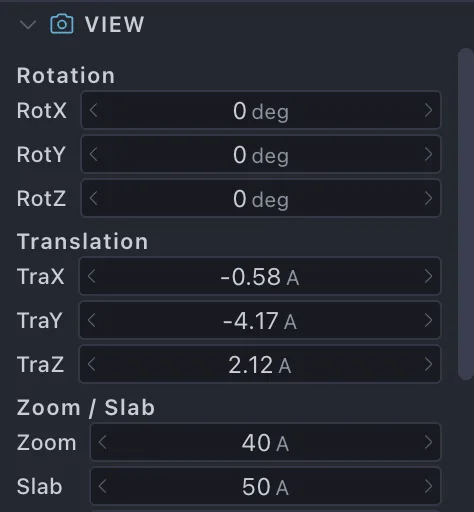
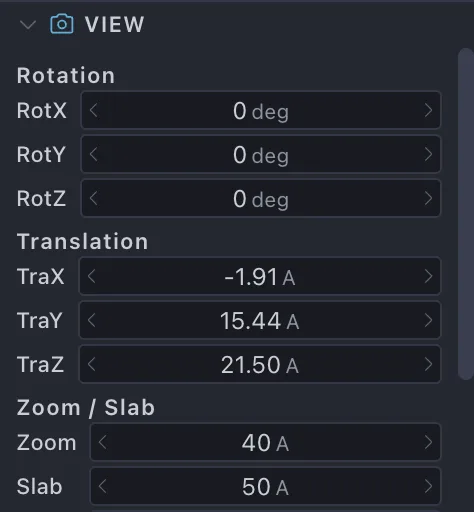
Match the CueMol2 tutorial's figures and wording
Where the CueMol2 tutorial illustrates a GUI part, this page should too,
and where the behaviour has not changed its wording should stand.

- Add the two figures Step2 has and this page lacked: the clicked atom's
  name drawn in the view, and the status bar line reporting the chain,
  residue, atom, occupancy, B factor and coordinates. Both come from the
  capture run, and the atom-click paragraph now follows Step2's wording.
- Restore the Renderer type descriptions to CueMol2's, including the
  performance ordering and what each is suited for, which the condensed
  versions had dropped.

The spec now clicks an atom and asserts the report, so that step is no
longer skipped; only the view's right-click menu remains out of reach
(native on macOS). Three things the run taught, recorded in the playbook
along with the rule to align against cuemol2_docs: a synthetic wheel is
auto-detected as a trackpad and pans instead of zooming, the click report
goes to the status bar and Output panel rather than the process log, and
narrowing a serial spec with --grep skips the test that loads the molecule.

Changed region(s): [[0.4726, 0.6875, 0.6203, 0.75], [0.4726, 0.5938, 0.6498, 0.6562], [0.4726, 0.5, 0.6498, 0.5625]]

diff --git a/docs-verify/specs/basic/loading.spec.ts b/docs-verify/specs/basic/loading.spec.ts
@@ -18,7 +18,7 @@ import { setupLoadingPage, LYSOZYME, SECOND_OBJ } from '../../fixtures/course';
 import { assertDialogQueuesEmpty } from '../../helpers/dialogs';
 import { expectRow, sceneRow } from '../../helpers/sceneTree';
 import { enterViewValue, setViewValue, viewPaneRowParts } from '../../helpers/viewPane';
-import { rotateView, zoomView } from '../../helpers/molView';
+import { clickAtomNearCenter, rotateView, zoomView } from '../../helpers/molView';
 import { docShot } from '../../helpers/docShot';
 
 const SHOT = 'tutorials/basic/loading';
@@ -80,6 +80,24 @@ test.describe.serial('構造の読み込みと表示', { tag: '@net' }, () => {
     });
 
     test('2. 視点を操作する', async () => {
+        // 「原子の上でクリックすると、その原子の名前がラベルとして分子ビューに
+        //   表示されます。同時に、ステータスバーと Output パネルに ... が出ます」
+        // Done before the gestures below, while the molecule is still centred
+        // from loading: the synthetic wheel is auto-detected as a Mac trackpad
+        // and pans the view instead of zooming, moving the molecule off centre.
+        const hit = await clickAtomNearCenter(harness.window, LYSOZYME);
+        // "Molecule [lysozyme], A TRP 63 CH2, O: 1.00 B: 12.58 Pos: (...)"
+        await expect(harness.window.locator('.status-left'))
+            .toContainText(/O: [\d.]+ B: [\d.]+ Pos: \(/);
+        await expect(harness.window.locator('.bottom-panel-content pre[data-select-scope]'))
+            .toContainText(`Molecule [${LYSOZYME}]`);
+        await docShot(harness.window, `${SHOT}/2-atom-label`, {
+            rect: { x: hit.x - 200, y: hit.y - 130, width: 400, height: 260 },
+        });
+        await docShot(harness.window, `${SHOT}/2-status-bar`, {
+            clip: harness.window.locator('.status-left'),
+        });
+
         // 「1. 分子ビュー上を左ドラッグします」「2. ホイールを回します」
         await rotateView(harness.window);
         await zoomView(harness.window);
@@ -102,7 +120,7 @@ test.describe.serial('構造の読み込みと表示', { tag: '@net' }, () => {
 
         test.info().annotations.push({
             type: 'skipped-step',
-            description: '§2 原子クリックによるラベル表示と Center at this atom (macOS ではネイティブメニュー)',
+            description: '§2 分子ビューの右クリックメニュー (macOS ではネイティブメニューのため撮影・操作ともできない)',
         });
     });
 

diff --git a/docs-verify/helpers/molView.ts b/docs-verify/helpers/molView.ts
@@ -1,4 +1,4 @@
-import type { Page } from '@playwright/test';
+import { expect, type Page } from '@playwright/test';
 
 /**
  * Molecular-view (canvas) gestures. There is no render-complete signal for
@@ -23,6 +23,42 @@ export async function rotateView(window: Page, dx = 120, dy = 60): Promise<void>
     }
     await window.mouse.up();
     await window.waitForTimeout(VIEW_SETTLE_MS);
+}
+
+/**
+ * Click an atom near the middle of the view (the molecule is centred after
+ * loading) and wait for the app to report the hit. Which atom is hit depends
+ * on the viewpoint, so a few nearby points are tried before giving up; the
+ * point that hit is returned so a screenshot can be framed around it.
+ *
+ * The report goes to the status bar and the Output panel, not to the main
+ * process log.
+ */
+const PICK_OFFSETS = [[0, 0], [12, 8], [-14, 6], [8, -16], [-20, -12]] as const;
+
+export async function clickAtomNearCenter(
+    window: Page,
+    objectName: string,
+): Promise<{ x: number; y: number }> {
+    const box = await canvas(window).boundingBox();
+    if (!box) throw new Error('[docs-verify] molecular view canvas not found');
+    const status = window.locator('.status-left');
+    for (const [dx, dy] of PICK_OFFSETS) {
+        const x = Math.round(box.x + box.width / 2 + dx);
+        const y = Math.round(box.y + box.height / 2 + dy);
+        await window.mouse.click(x, y);
+        try {
+            await expect(status).toContainText(`Molecule [${objectName}]`, { timeout: 2_000 });
+            return { x, y };
+        } catch {
+            // Missed: the click landed between atoms. Try the next point.
+        }
+    }
+    const seen = await status.innerText().catch(() => '(status bar empty)');
+    throw new Error(
+        `[docs-verify] no atom of "${objectName}" was hit near the view centre\n` +
+        `  canvas: ${JSON.stringify(box)}\n  status bar: ${JSON.stringify(seen)}`,
+    );
 }
 
 export async function zoomView(window: Page, wheelDelta = -240): Promise<void> {

diff --git a/docs-verify/helpers/docShot.ts b/docs-verify/helpers/docShot.ts
@@ -31,10 +31,12 @@ const MAX_BYTES = 300 * 1024;
 const SHOT_SETTLE_MS = 500;
 const WEBP_QUALITIES = [82, 70, 58, 46];
 
+export interface Rect { x: number; y: number; width: number; height: number }
+
 export async function docShot(
     window: Page,
     id: string,
-    opts: { clip?: Locator | Locator[]; pad?: number } = {},
+    opts: { clip?: Locator | Locator[]; pad?: number; rect?: Rect } = {},
 ): Promise<void> {
     if (!process.env.DOCSHOT) return;
 
@@ -64,7 +66,12 @@ export async function docShot(
     console.log(`[docShot] ${id}.webp (${Math.round(out.length / 1024)} KB)`);
 }
 
-async function capture(window: Page, opts: { clip?: Locator | Locator[]; pad?: number }): Promise<Buffer> {
+async function capture(
+    window: Page,
+    opts: { clip?: Locator | Locator[]; pad?: number; rect?: Rect },
+): Promise<Buffer> {
+    // An explicit region, for parts of the GL canvas that no element covers.
+    if (opts.rect) return window.screenshot({ clip: opts.rect });
     if (!opts.clip) return window.screenshot();
     const clips = Array.isArray(opts.clip) ? opts.clip : [opts.clip];
     if (clips.length === 1 && opts.pad === undefined) return clips[0].screenshot();

diff --git a/docs/ja/tutorials/basic/loading.md b/docs/ja/tutorials/basic/loading.md
@@ -38,25 +38,26 @@
 よく使う表示方法には次のようなものがあります。
 
 simple
-:   線画の stick モデル。軽く、細部を確認する用途に向きます
+:   線画の stick モデル。パフォーマンス的には trace に次いで高速。細かく見る場合に適している
 
 trace
-:   Cα (タンパク質) / リン原子 (核酸) を直線でつないだ最も軽い表示
+:   線画の Cα (タンパク質の場合)、リン原子 (核酸の場合) トレース。パフォーマンス的には
+    最も高速。大まかに見る場合に適している
 
 ballstick
-:   原子を球、結合を円柱で描くモデル
+:   ball and stick モデル表示
 
 cpk
-:   空間充填モデル
+:   CPK モデル表示。空間充填モデルともいう
 
 tube
-:   主鎖を滑らかなチューブで描く表示
+:   主鎖のチューブ状モデル表示。trace の発展版のようなもの
 
 ribbon / cartoon
-:   二次構造を反映したリボン表示。cartoon はヘリックスを筒状に描きます
+:   いわゆるリボンモデル表示。cartoon はヘリックスを筒状に描く
 
 nucl
-:   核酸向けの主鎖チューブ + 塩基表示
+:   tube の DNA、RNA 向け発展版。塩基が棒状に表示される
 
 全種類の一覧と詳細は [Renderer 一覧](../../reference/renderers/index.md) を参照してください。
 
@@ -110,15 +111,23 @@ View パネルの各行は、次の 3 通りで操作できます。
 [マウス・トラックパッド操作](../../ui/mouse-input.md)、View パネルの各項目は
 [サイドパネル](../../ui/side-panels.md) を参照してください。
 
-原子の上でクリックすると、その原子の名前がラベルとして分子ビューに表示されます
-(もう一度クリックすると消えます)。同時に、**ウィンドウ最下部のステータスバー**と
-**Output パネル**に、Object 名・チェイン・残基・原子名に加えて、占有率 (O)・温度因子 (B)・
-座標が出ます。
+### 原子の名称と情報を表示する
 
-右クリックするとメニューが開きます。**先頭の行はいま指している原子の情報**で、選んでも
-何も起きません。その下の **Center at this atom** を選ぶと、その原子がビューの中央に来る
-ように視点が移ります。さらに下には選択のための項目が並びます
-(→ [分子の一部を選択する](selection.md))。
+原子の位置でクリックすると、その原子の名称が分子ビューに表示されます
+(もう一度クリックすると消えます)。
+
+![クリックした原子に名称が表示される](../../../assets/images/tutorials/basic/loading/2-atom-label.webp){ width="400" .on-glb }
+
+さらに、その原子の座標や温度因子など、詳しい情報が**ウィンドウ最下部のステータスバー**に
+表示されます (同じ内容が **Output** パネルにも残ります)。分子 Object 名、チェイン名、
+残基名・番号、原子名の順に並び、続いて占有率 (O)、温度因子 (B)、座標が出ます。
+
+![ステータスバーに表示された原子の情報](../../../assets/images/tutorials/basic/loading/2-status-bar.webp){ width="451" }
+
+原子の位置で右クリックするとコンテキストメニューが表示されます。一番上は上と同じ原子の
+情報で、選んでも何も起こりません。次の **Center at this atom** を選ぶと、その原子が
+ビューの中央に来るように視点が移動します。それ以下の Select 関連のメニューは
+[分子の一部を選択する](selection.md) で説明します。
 
 ## 3. もう 1 つ分子を読み込む
 

diff --git a/docs-verify/PLAYBOOK.md b/docs-verify/PLAYBOOK.md
@@ -41,6 +41,22 @@ spec を書き始める前に、ページが次を満たしているか確認す
   (Renderer の既定色は `$molcol` を参照するので、ballstick の炭素まで追従する)
 - 役目を終えた Renderer は目のアイコンで非表示にする、まで書く
 
+## 1.5 cuemol2_docs との対応を取る
+
+CueMol3 のチュートリアルは CueMol2 の対応ページを下敷きにしている。ページを書く前に
+**対応する CueMol2 ページ (`~/works/cuemol2_docs/docs/ja/Documents/GUIのチュートリアル(CueMol2)/`)
+を開き、図と説明を洗い出して突き合わせる**。
+
+- **図**: CueMol2 が図を出している対象 (ダイアログ、パネル、ステータスバー、コンテキスト
+  メニュー、ツールバーのボタンなど) には、こちらでも図を用意する。**被写体は同じでも、
+  画面は CueMol3 のものを撮る** (`docShot`)。
+- **文章**: 実装が変わっていない部分は、**言い回しも CueMol2 と同じにする**。表現を変えるのは
+  実装が変わった箇所だけ。
+- **流用**: 内容が変わっていない図 (概念図など) は CueMol2 の画像をそのままコピーして使う
+  (例: `scene_concept_small2.png` → `tutorials/basic/loading/scene-concept.png`)。
+- CueMol2 が説明していて CueMol3 に存在しない GUI (ロック列など) は、**存在しないことを
+  確認してから**「CueMol2 との違い」に書く。確認できなければ書かない。
+
 ## 2. セレクタの調べ方 (使い捨て DOM ダンプ)
 
 production コードに `data-testid` は無いので、セレクタは可視テキスト・aria-label・
@@ -283,6 +299,9 @@ task e2e            # 既定ウィンドウ (1600x1000) での回帰。撮影用
 | 撮影サイズでしか通らない spec を書いてしまう | 座標依存の操作を書かない。最後に `task e2e` (1600x1000) で回帰確認する |
 | `docShot` が `no visible clip target` / `not an HTMLElement` で落ちる | 対象が `display: contents` の要素だと矩形を持たない (View パネルの `.h3-form-grid-row` がこれ)。内側の実体 (ラベルとコントロール) を配列で渡す |
 | View パネルに入れた回転角が読み戻せない | Rotation (RotX/RotY/RotZ) は相対ダイヤルで、確定すると 0 に戻る。読み戻しで検証できるのは Translation / Zoom / Slab / Dist |
+| ホイール操作がズームにならず視点が平行移動する | 合成したホイールイベントは **Mac trackpad と自動判定**され、2 本指スクロール = 平行移動として扱われる (ステータスバーに `Input device auto-detected: Mac trackpad` と出る)。中心を狙ったクリックはホイール操作の**前**に行う |
+| 原子クリックの結果がログに出ない | クリックの報告は**ステータスバー (`.status-left`) と Output パネル** (`.bottom-panel-content pre[data-select-scope]`) に出る。main プロセスの stdout には流れないので `logs.waitForLine` では待てない |
+| `--grep` で 1 test だけ流すと落ちる | `describe.serial` の前提となる test (分子の読み込みなど) が走らないため。分子が無い状態では原子ピックは必ず失敗する。切り分けのときも spec 全体を流す |
 | ログ行の待ち受けが別の行に当たる | `waitForLine` は部分一致。`'read '` は `thread read (2047) ok` に、`'> read '` は `LoadSymLib> read 266 s.g.s` に当たる。読み込み確認は `' atoms'` を待って `/read \d+ atoms/` で検証する |
 
 ## セレクタ台帳
